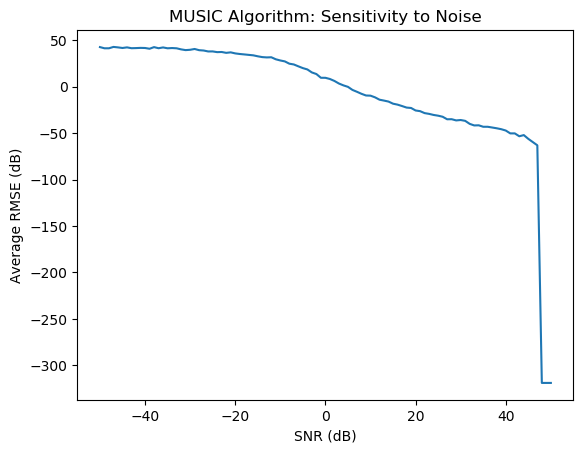
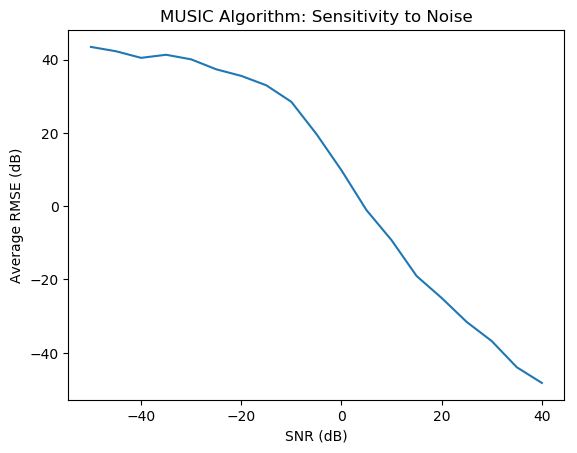
Refactor folder structure and add some small graph outputs

diff --git a/main.py b/main.py
@@ -88,6 +88,7 @@ def test_accuracy(int_test_snr, bool_test_fm):
 
     Output:
      - Text file with LaTeX table-ready values
+     - Image file with average RMSE vs AoA
     '''
 
     if (bool_test_fm):
@@ -95,11 +96,14 @@ def test_accuracy(int_test_snr, bool_test_fm):
     else:
         band = "nb"
 
-    filename = (
-        "./output/accuracy/music_accuracy_%s_%d.txt") % (band, int_test_snr)
+    filename = "./output/accuracy/music_accuracy_%s_%d.txt" % (
+        band, int_test_snr)
+    filename_img = "./output/accuracy/music_accuracy_%s_%d.png" % (
+        band, int_test_snr)
     file_acc = open(filename, "w")
-    test_angles = np.arange(-90, 91, 10)
+    test_angles = np.arange(-90, 91, 5)
     num_cycles = 100
+    arr_avg_rmse = np.zeros(test_angles.size)
 
     for i in range(test_angles.size):
         total_rmse = 0
@@ -113,11 +117,24 @@ def test_accuracy(int_test_snr, bool_test_fm):
 
         avg_est_aoa = total_est_aoa / num_cycles
         avg_rmse = np.sqrt(total_rmse / num_cycles)
+        arr_avg_rmse[i] = avg_rmse
 
-        file_acc.write("%.2f & %.2f & %.2f\\\\\n" %
-                       (angle, avg_est_aoa, avg_rmse))
+        file_acc.write("%.2f & %.2f & %.2f" %
+                       (test_angles[i], avg_est_aoa, avg_rmse))
+
+        if ((i + 1) % 2 == 0):
+            file_acc.write("\\\\\n")
+        else:
+            file_acc.write(" & ")
 
     file_acc.close()
+
+    plt.figure(1)
+    plt.title("MUSIC Algorithm: Accuracy of Algorithm")
+    plt.xlabel("Angle of Arrival (degrees)")
+    plt.ylabel("Average RMSE (dB)")
+    plt.plot(test_angles, 10 * np.log(arr_avg_rmse))
+    plt.savefig(filename_img, bbox_inches="tight", format="png")
 
 
 def test_resolution(fl_test_angle, int_test_snr, bool_test_fm):
@@ -206,7 +223,7 @@ def test_sensitivity(fl_test_angle, bool_test_fm):
 
     File format: "<snr_db>,<average RMSE>\n"
 
-    SNR range to test (dB): -50 <= <snr_db> <= 50 in steps of 1
+    SNR range to test (dB): -50 <= <snr_db> <= 40 in steps of 5
 
     Averages RMSE over <num_cycles> iterations:
     <rmse> = ( <est_aoa> - <aoa> )
@@ -231,7 +248,7 @@ def test_sensitivity(fl_test_angle, bool_test_fm):
     filename_img = (
         "./output/sensitivity/music_sensitivity_%s_%.2f.png") % (band, fl_test_angle)
     file_sens = open(filename, "w")
-    test_snr = np.arange(-50, 51, 1)
+    test_snr = np.arange(-50, 41, 5)
     num_cycles = 100
     arr_avg_rmse_db = np.zeros(test_snr.size)
 
@@ -265,7 +282,7 @@ def test_sensitivity(fl_test_angle, bool_test_fm):
 
 # angle = 30
 # music = MUSIC(angle)
-# music.calculateAOA(100, fm_mod=True)
+# t = music.calculateAOA(20, fm_mod=False)
 # music.plot_signals(music.X[0])
 # plot_signals(music)
 # print("AOA:\t\t%.2f" % (angle))
@@ -276,9 +293,13 @@ def test_sensitivity(fl_test_angle, bool_test_fm):
 # plot_music_range(np.arange(-90, 92, 2))
 
 # Testing Narrowband
-# test_accuracy(5, False)
+# test_accuracy(0, False)  # Done
 # test_resolution(30., 5, False) # Done
 # test_efficiency(30., 5, False) # Done
-test_sensitivity(30., False)
+# test_sensitivity(30., False)  # Done
 
 # Testing Wideband
+# test_accuracy(0, True) # Done
+# test_resolution(30., 5, True) # Done
+# test_efficiency(30., 5, True) # Done
+test_sensitivity(30., True)

diff --git a/music_class.py b/music_class.py
@@ -3,7 +3,6 @@ class MUSIC:
     import numpy as np
     import matplotlib.pyplot as plt
     import time
-    from copy import deepcopy
 
     def __init__(self, theta_aoa):
 
@@ -79,10 +78,21 @@ class MUSIC:
         self.s = self.np.zeros((self.K, self.M), dtype=complex)
         y_c = self.np.zeros((self.K, self.M), dtype=complex)
 
+        # self.plt.figure(1)
+        # self.plt.subplot(211)
+        # self.plt.title("Modulator")
+        # self.plt.ylabel("Amplitude")
+
         for k in range(self.K):
             sig = self.Amp * self.np.sin(2 * self.np.pi *
                                          self.f1 * self.t)
             self.s[k] = sig
+
+        # self.plt.plot(self.t, self.s[0])
+
+        # self.plt.subplot(212)
+        # self.plt.ylabel("Amplitude")
+        # self.plt.xlabel("Modulated Signal")
 
         # Carrier info
         f_c = 100
